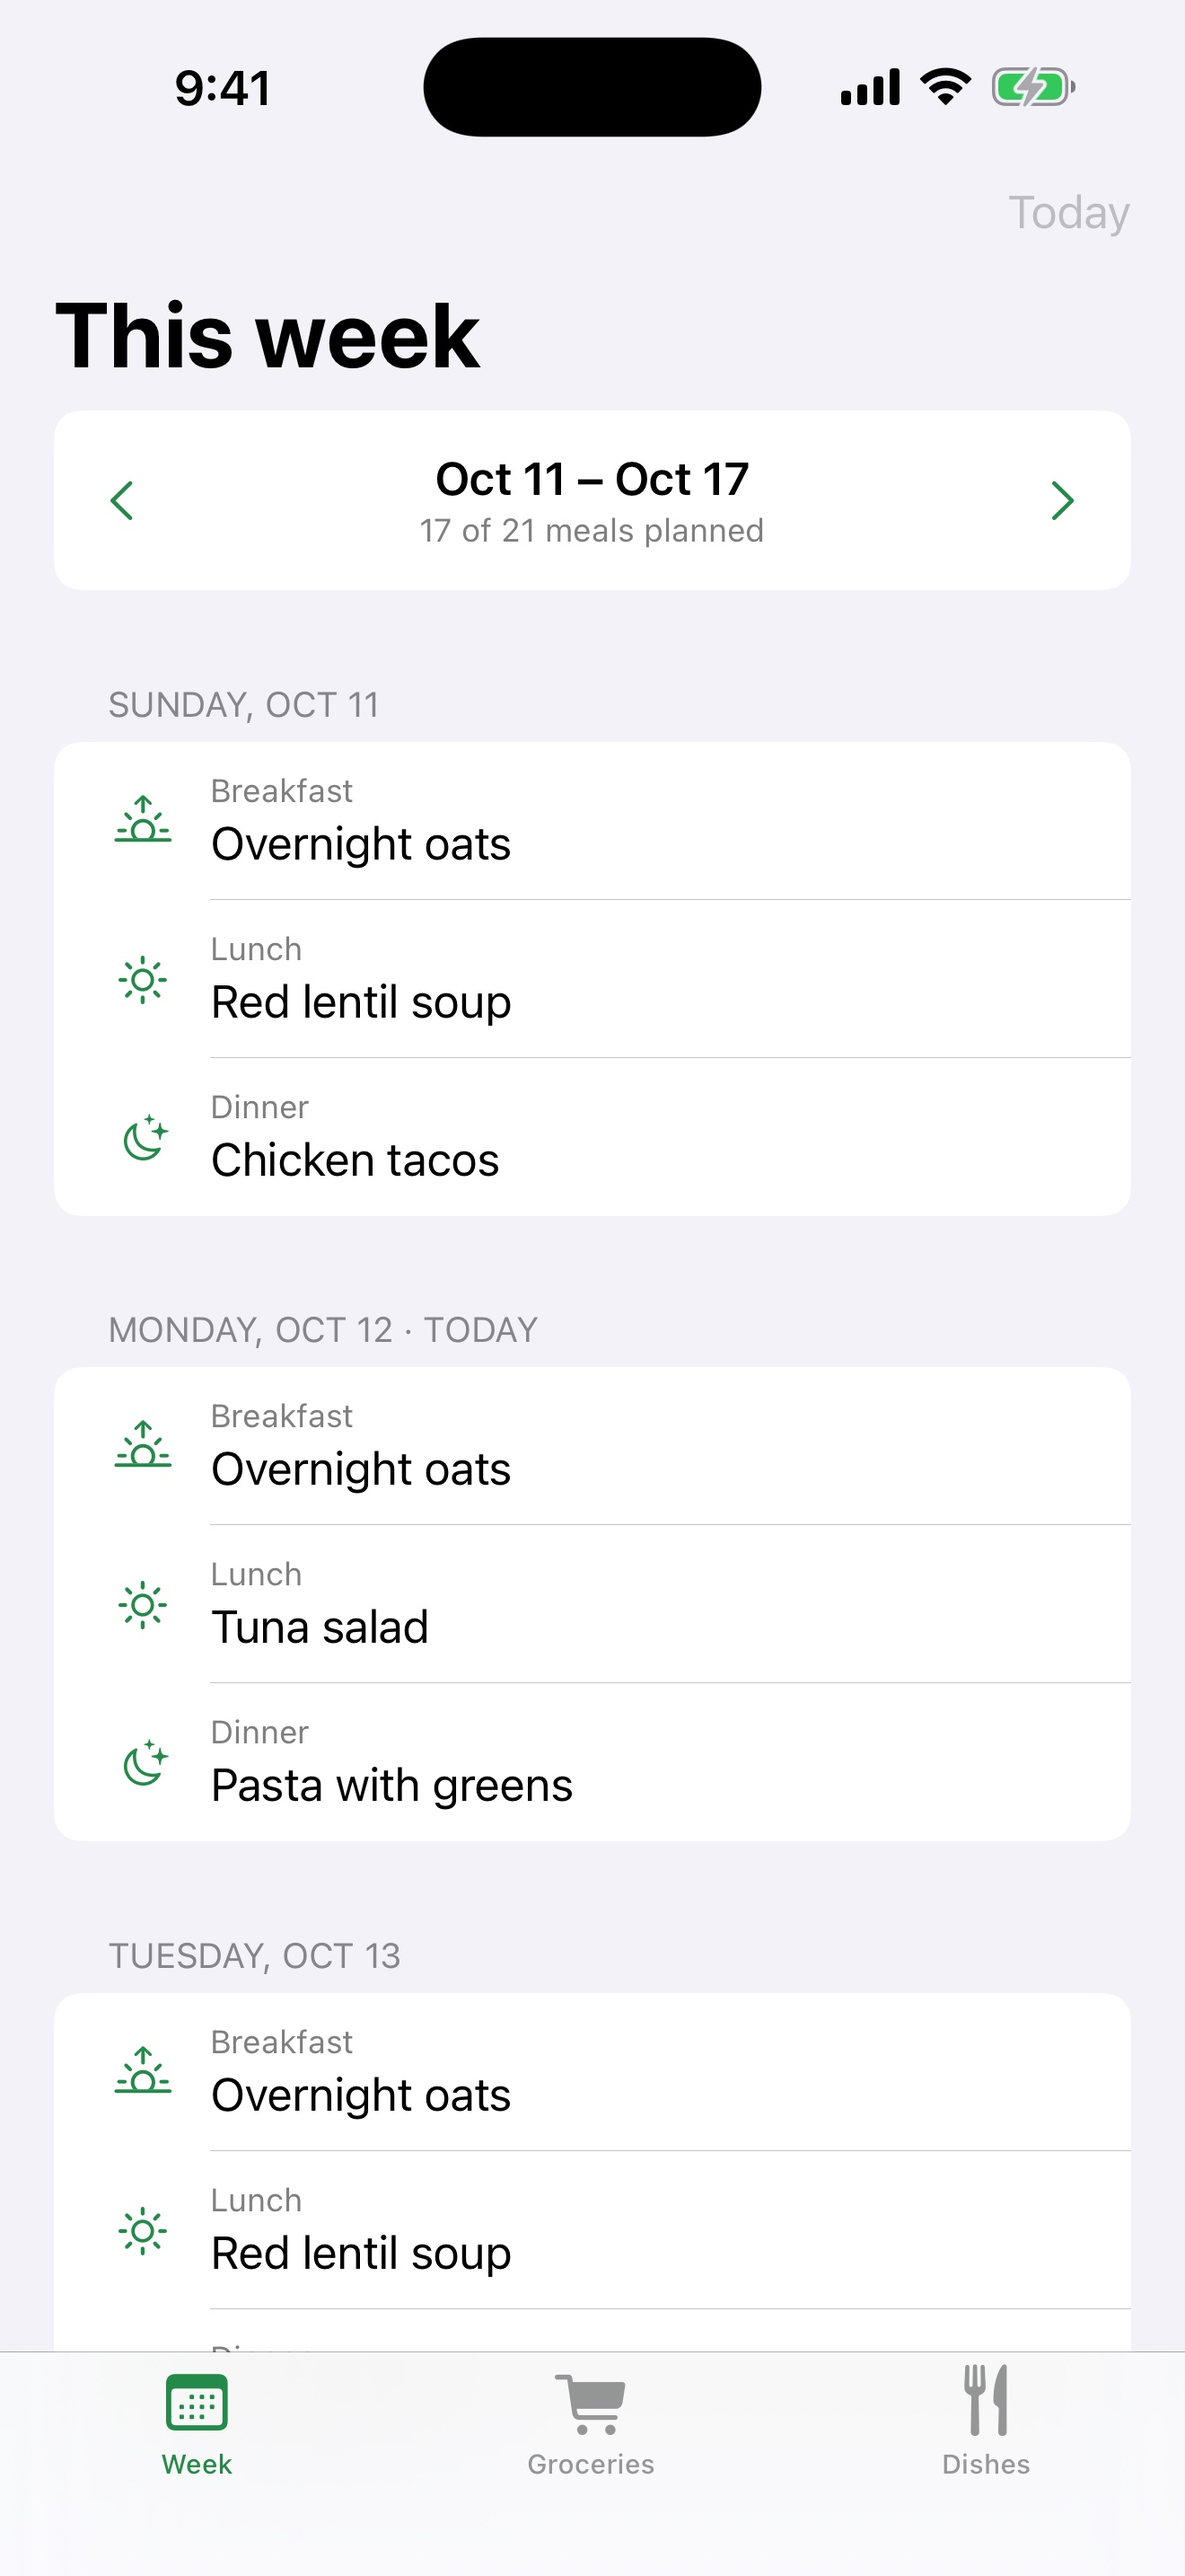
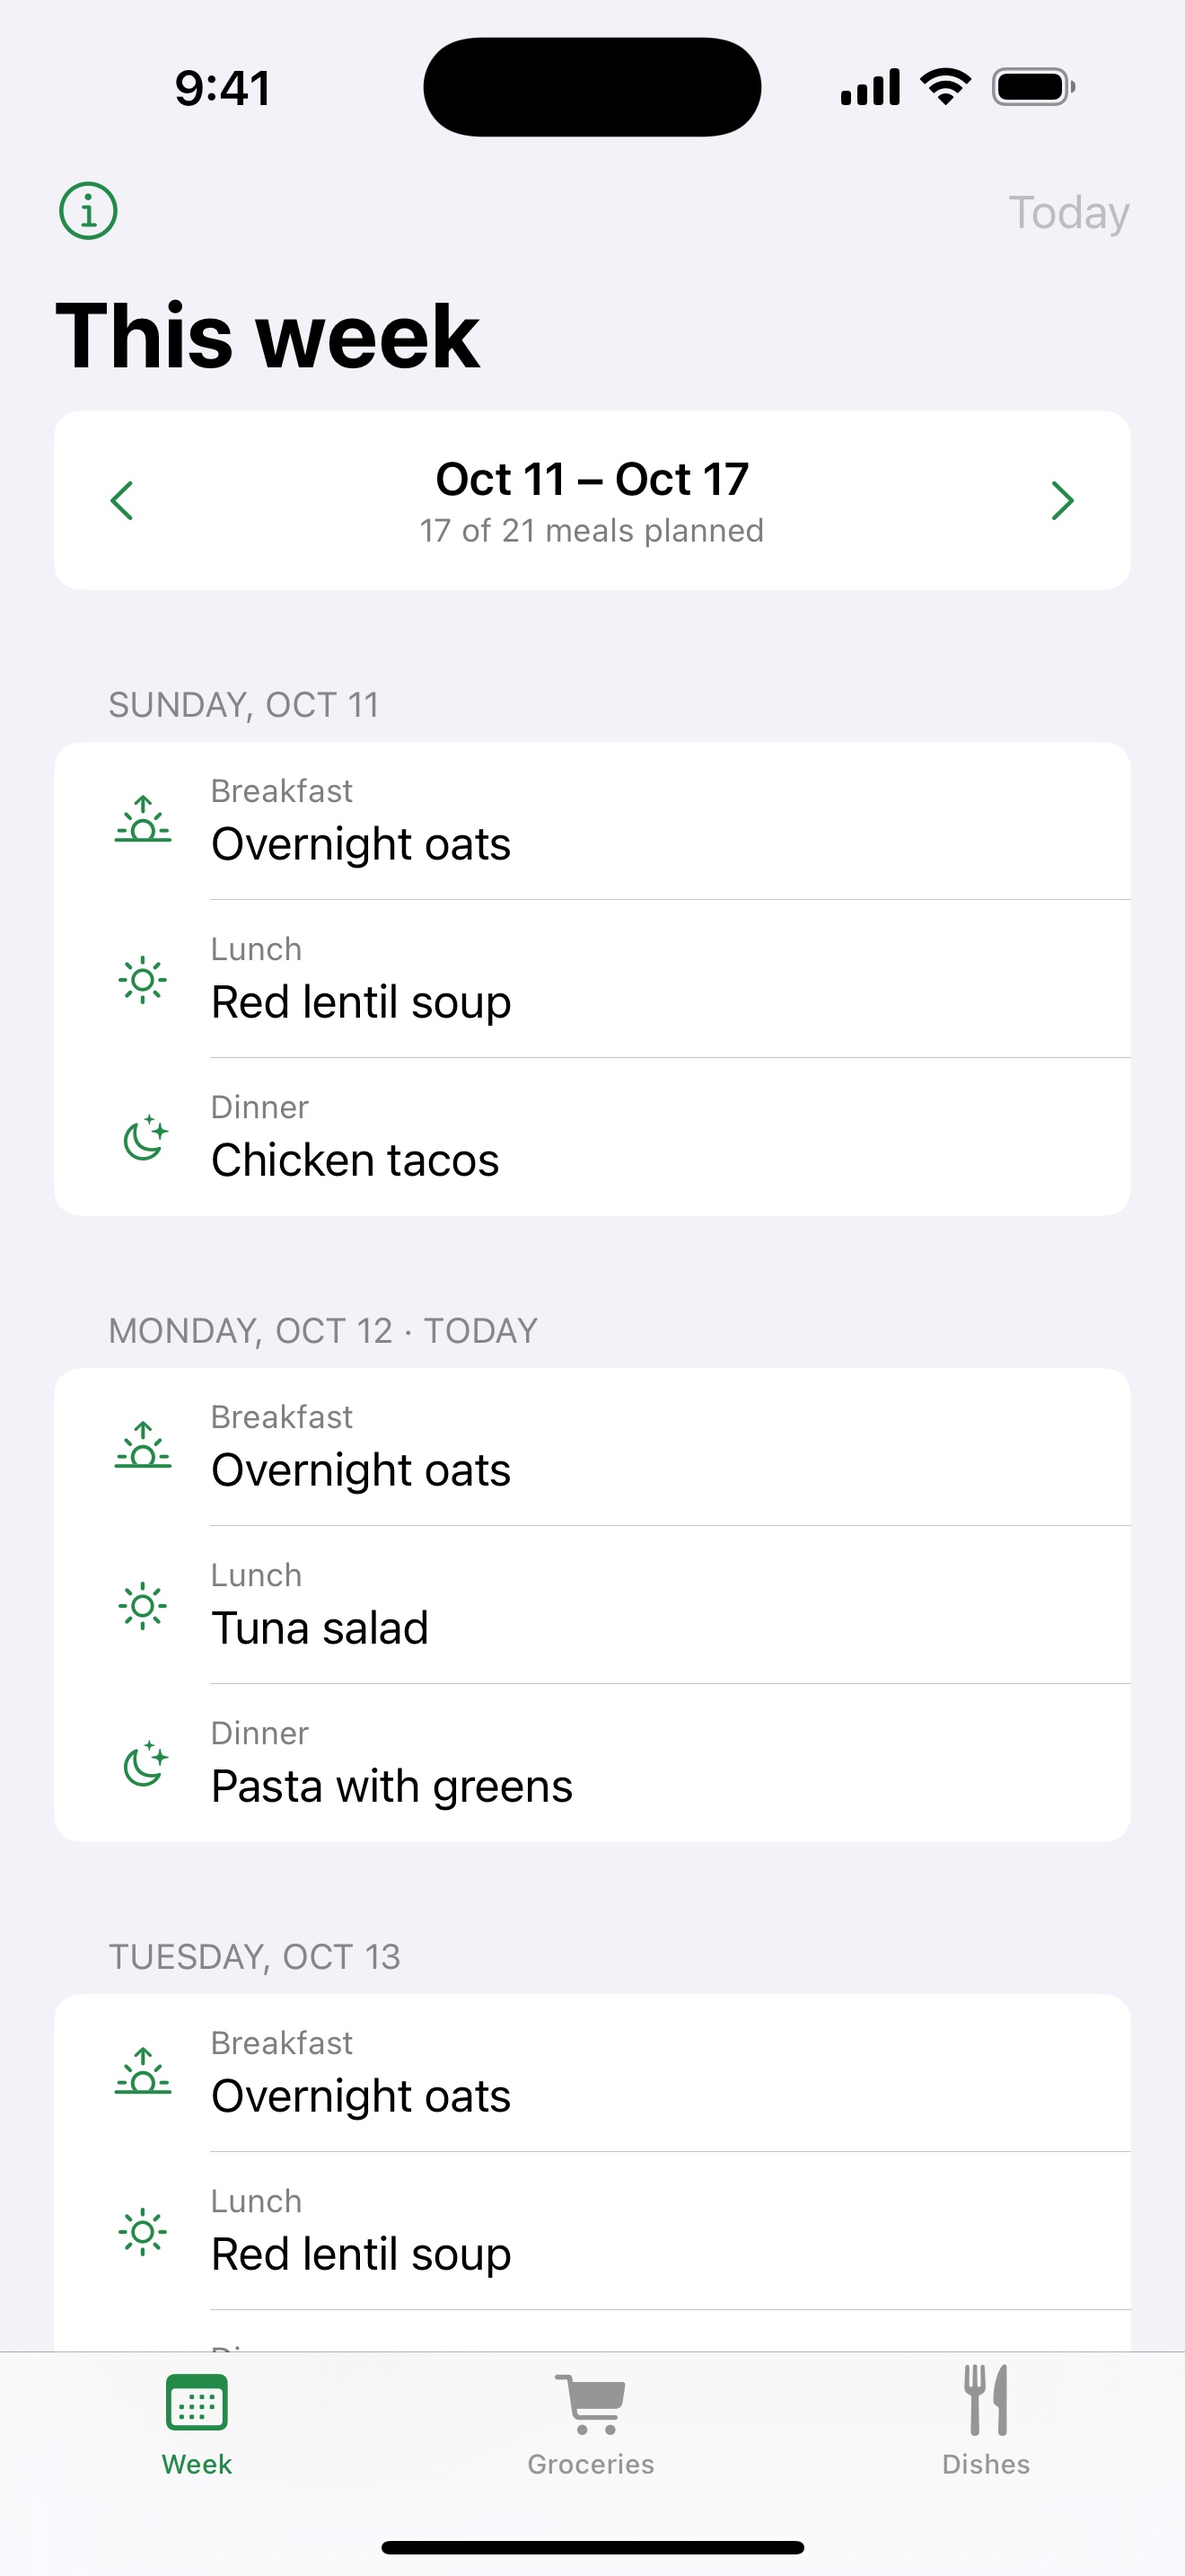
Every app carries the way to its privacy policy and support; a blank screenshot is refused
The privacy policy and support page is live at https://linglistack.github.io/apps/ (public
repository linglistack/apps), with hello@heyreagent.com as the address to write to.

- ops/factory.json holds the page's address and the email; ops/project.mjs writes both into each
  app when it is built, so no file of an app holds a web address.
- template/Sources/About.swift: an About screen with the link, the email and the version, opened by
  AboutButton() in the main screen's toolbar. Apple asks for the link inside the app (App Review
  Guidelines 5.1.1) and a way to reach the developer (1.5). ops/check.mjs refuses an app without it.
- Larderweek has it too; its screenshots were taken again on this Mac.
- Upload sheets give the Support and Privacy Policy address, the copyright line and the review contact.
- ops/run.sh waited five seconds and photographed whatever was there. On a busy Mac that was the
  app's white launch screen, and the check passed it. It now waits until the app has drawn, and
  refuses a screen that is one colour from the status bar down (ops/looks.swift: flat).

diff --git a/ops/looks.swift b/ops/looks.swift
@@ -1,12 +1,17 @@
-// Looks at screenshots, so a picture of a black, empty or repeated screen is never taken for an app.
-//   swift ops/looks.swift one <picture>           prints  black=<0..1> colours=<count>
+// Looks at screenshots, so a picture of a black, empty, blank or repeated screen is never taken for an app.
+//   swift ops/looks.swift one <picture>           prints  black=<0..1> colours=<count> flat=<0..1>
 //   swift ops/looks.swift same <picture> <other>  prints  differs=<0..1>
 // `black` is the share of the screen that is pure black (a phone still starting up is all black);
 // `colours` is how many different colours it holds, coarsely counted (an empty screen has a few);
+// `flat` is the share of the screen, below the status bar and above the home bar, that is one single
+// colour (an app that has not drawn yet shows its launch screen: one colour, so 1.0000);
 // `differs` is the share of the screen that is not the same in the two pictures.
 import CoreGraphics
 import Foundation
 import ImageIO
+
+/// How many of the sampled pixels make one row of the picture.
+var perRow = 1
 
 /// Every sixth pixel of the picture, as bytes: red, green, blue.
 func sample(_ path: String) -> [[UInt8]]? {
@@ -18,6 +23,7 @@ func sample(_ path: String) -> [[UInt8]]? {
                               space: CGColorSpaceCreateDeviceRGB(), bitmapInfo: CGImageAlphaInfo.noneSkipLast.rawValue) else { return nil }
     ctx.draw(image, in: CGRect(x: 0, y: 0, width: width, height: height))
     var pixels: [[UInt8]] = []
+    perRow = max(1, (width + 5) / 6)
     for y in stride(from: 0, to: height, by: 6) {
         for x in stride(from: 0, to: width, by: 6) {
             let i = (y * width + x) * 4
@@ -37,7 +43,13 @@ if args.count == 3, args[1] == "one" {
     guard let pixels = sample(args[2]) else { fail("the picture could not be read") }
     let black = pixels.filter { $0[0] < 8 && $0[1] < 8 && $0[2] < 8 }.count
     let colours = Set(pixels.map { (Int($0[0]) >> 4) << 8 | (Int($0[1]) >> 4) << 4 | Int($0[2]) >> 4 }).count
-    print(String(format: "black=%.3f colours=%d", Double(black) / Double(pixels.count), colours))
+    // The app's own part of the screen: the clock and battery above it and the home bar below are the phone's.
+    let rows = pixels.count / perRow
+    let own = pixels[(rows * 8 / 100 * perRow)..<(rows * 96 / 100 * perRow)]
+    var counts: [Int: Int] = [:]
+    for pixel in own { counts[Int(pixel[0]) << 16 | Int(pixel[1]) << 8 | Int(pixel[2]), default: 0] += 1 }
+    let flat = own.isEmpty ? 1 : Double(counts.values.max() ?? 0) / Double(own.count)
+    print(String(format: "black=%.3f colours=%d flat=%.4f", Double(black) / Double(pixels.count), colours, flat))
 } else if args.count == 4, args[1] == "same" {
     guard let a = sample(args[2]), let b = sample(args[3]), a.count == b.count else { fail("the pictures could not be compared") }
     let far = zip(a, b).filter { abs(Int($0[0]) - Int($1[0])) + abs(Int($0[1]) - Int($1[1])) + abs(Int($0[2]) - Int($1[2])) > 40 }.count

diff --git a/apps/tablewright/Sources/About.swift b/apps/tablewright/Sources/About.swift
@@ -1,0 +1,49 @@
+import SwiftUI
+
+/// The way to the privacy policy and to support, which Apple asks every app to carry inside it.
+/// The page's address and the email are written into the app when it is built, from
+/// ops/factory.json, so no file here holds them. Every app keeps this file as it is and puts
+/// `AboutButton()` in the toolbar of its main screen.
+struct AboutButton: View {
+    @State private var showing = false
+
+    var body: some View {
+        Button { showing = true } label: { Image(systemName: "info.circle") }
+            .accessibilityLabel("About, privacy and support")
+            .sheet(isPresented: $showing) { AboutView() }
+    }
+}
+
+struct AboutView: View {
+    @Environment(\.dismiss) private var dismiss
+
+    private func info(_ key: String) -> String? {
+        Bundle.main.object(forInfoDictionaryKey: key) as? String
+    }
+
+    var body: some View {
+        NavigationStack {
+            List {
+                Section {
+                    if let address = info("AboutPage"), let page = URL(string: address) {
+                        Link("Privacy and support", destination: page)
+                    }
+                    if let email = info("AboutEmail") {
+                        LabeledContent("Email", value: email)
+                            .textSelection(.enabled)
+                    }
+                } footer: {
+                    Text("Everything you enter stays on this iPhone. This app has no account and collects nothing.")
+                }
+                Section {
+                    LabeledContent("Version", value: info("CFBundleShortVersionString") ?? "1.0")
+                }
+            }
+            .navigationTitle("About")
+            .navigationBarTitleDisplayMode(.inline)
+            .toolbar {
+                ToolbarItem(placement: .confirmationAction) { Button("Done") { dismiss() } }
+            }
+        }
+    }
+}

diff --git a/template/Sources/About.swift b/template/Sources/About.swift
@@ -1,0 +1,49 @@
+import SwiftUI
+
+/// The way to the privacy policy and to support, which Apple asks every app to carry inside it.
+/// The page's address and the email are written into the app when it is built, from
+/// ops/factory.json, so no file here holds them. Every app keeps this file as it is and puts
+/// `AboutButton()` in the toolbar of its main screen.
+struct AboutButton: View {
+    @State private var showing = false
+
+    var body: some View {
+        Button { showing = true } label: { Image(systemName: "info.circle") }
+            .accessibilityLabel("About, privacy and support")
+            .sheet(isPresented: $showing) { AboutView() }
+    }
+}
+
+struct AboutView: View {
+    @Environment(\.dismiss) private var dismiss
+
+    private func info(_ key: String) -> String? {
+        Bundle.main.object(forInfoDictionaryKey: key) as? String
+    }
+
+    var body: some View {
+        NavigationStack {
+            List {
+                Section {
+                    if let address = info("AboutPage"), let page = URL(string: address) {
+                        Link("Privacy and support", destination: page)
+                    }
+                    if let email = info("AboutEmail") {
+                        LabeledContent("Email", value: email)
+                            .textSelection(.enabled)
+                    }
+                } footer: {
+                    Text("Everything you enter stays on this iPhone. This app has no account and collects nothing.")
+                }
+                Section {
+                    LabeledContent("Version", value: info("CFBundleShortVersionString") ?? "1.0")
+                }
+            }
+            .navigationTitle("About")
+            .navigationBarTitleDisplayMode(.inline)
+            .toolbar {
+                ToolbarItem(placement: .confirmationAction) { Button("Done") { dismiss() } }
+            }
+        }
+    }
+}

diff --git a/template/Sources/RootView.swift b/template/Sources/RootView.swift
@@ -46,6 +46,7 @@ struct RootView: View {
             }
             .navigationTitle("Starter")
             .toolbar {
+                ToolbarItem(placement: .topBarLeading) { AboutButton() }
                 ToolbarItem(placement: .topBarTrailing) {
                     Button { adding = true } label: { Image(systemName: "plus") }
                         .accessibilityLabel("Add an entry")

diff --git a/apps/tablewright/Sources/RootView.swift b/apps/tablewright/Sources/RootView.swift
@@ -82,6 +82,7 @@ struct WeekView: View {
             }
             .navigationTitle("This week")
             .toolbar {
+                ToolbarItem(placement: .topBarLeading) { AboutButton() }
                 ToolbarItem(placement: .topBarTrailing) {
                     Button("Today") { store.goToThisWeek() }
                         .disabled(store.isThisWeek)

diff --git a/apps/tablewright/UPLOAD.md b/apps/tablewright/UPLOAD.md
@@ -7,7 +7,6 @@ Look at the screenshots in `listing/screenshots/` first. They were taken from th
 ## Once, before the first upload of any app
 
 - An Apple Developer membership, and Xcode 26 or later signed in to that account.
-- One public page with a privacy note and a support address, used by every app here. Its address goes into both URL boxes below.
 
 ## 1. Send the build
 
@@ -57,6 +56,14 @@ There are no recipes to browse and nothing to sign up for: it plans what you coo
 menu,dinner,weekly,supper,grocery,shopping list,ingredients,cooking,food,lunch,breakfast,prep,dishes
 ```
 
+**Support URL** and **Privacy Policy URL** (the second is under App Privacy): the same address in both. Leave Marketing URL empty.
+
+```
+https://linglistack.github.io/apps/
+```
+
+**Copyright:** `2026` and then your name or your company's, as on your Apple Developer account.
+
 **Category:** Food & Drink  **Price:** Free  **Age rating:** answer "None" or "No" to every question (4+)
 
 **Screenshots** (iPhone 6.9" display): drag in the 4 files from `listing/screenshots/`.
@@ -66,6 +73,8 @@ menu,dinner,weekly,supper,grocery,shopping list,ingredients,cooking,food,lunch,b
 4. Each dish with what goes in it
 
 **App Privacy:** "Data Not Collected". The app has no account, no network use and no tracking.
+
+**App Review contact:** your own name, phone number and email, so Apple's reviewer can reach you.
 
 **Notes for the reviewer**
 

diff --git a/ops/jobs/maker.md b/ops/jobs/maker.md
@@ -68,8 +68,11 @@ Then make it the new app. In `apps/<slug>/`:
   words), `made` (today), `why` (part 1), `shots` (3 to 5), `permissions` (only what the code needs,
   each with a plain sentence saying why; most apps need none).
 - **`icon.json`**: one `shape` from the list in `ops/check.mjs`, and two colours that suit the app.
-- **`Sources/`**: the app. Rename `StarterApp.swift` and its struct. Keep `DebugLaunch.swift` and
-  `Storage.swift` as they are. Rewrite the rest.
+- **`Sources/`**: the app. Rename `StarterApp.swift` and its struct. Keep `DebugLaunch.swift`,
+  `Storage.swift` and `About.swift` as they are. Rewrite the rest, and keep `AboutButton()` in the
+  toolbar of the main screen, as `RootView.swift` in the starter has it
+  (`ToolbarItem(placement: .topBarLeading) { AboutButton() }`): it opens the way to the privacy
+  policy and to support, which Apple asks every app to carry. The check refuses an app without it.
 - **`listing/listing.json`**: what the store page says (part 4).
 
 How to write Swift you cannot build (`ops/RULES.md`, part 5):

diff --git a/ops/RULES.md b/ops/RULES.md
@@ -27,6 +27,10 @@ app is a different kind of thing from every app made before it, and does one job
 
 - **It keeps to the phone.** No network, no server, no account, no web page, no key. What a person
   enters is saved on the phone and nowhere else.
+- **It carries the way to its privacy policy and to support**, as Apple asks of every app (App Review
+  Guidelines 5.1.1 and 1.5): `Sources/About.swift`, kept exactly as the template has it, and
+  `AboutButton()` in the toolbar of the main screen. That is the one link out of the app; its address
+  is written in when the app is built, so no file of the app holds a web address.
 - **It sells nothing inside itself and tracks nobody.** No purchases, no advertising, no analytics,
   no asking for a rating. The owner sets a price on the store page, or none.
 - **It needs nothing set up.** No capability or entitlement, no extension, no widget, no package.

diff --git a/README.md b/README.md
@@ -32,7 +32,10 @@ different kind of thing from every app before it.
 
 - An Apple Developer membership ($99 a year).
 - Xcode 26 or later on the Mac you upload from, signed in to that account.
-- One public page with a privacy note and a support address, shared by every app here.
+- Nothing to do for the privacy policy and support page: it is https://linglistack.github.io/apps/ and
+  every upload sheet gives it. Each app links to it from its About screen. The page is the file
+  `index.html` in the public repository `linglistack/apps`; its address and the email it shows are
+  in `ops/factory.json`.
 - The apps' ids begin with the prefix in `ops/factory.json`. Change it there before the first upload
   if you want another; after an app is uploaded its id cannot change.
 
